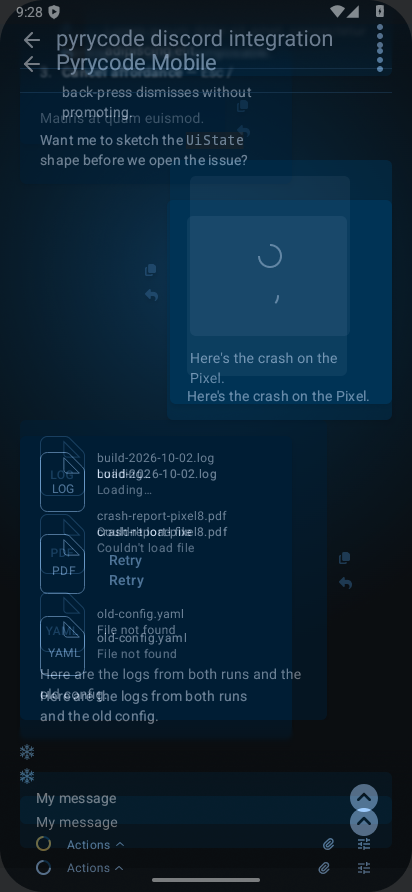
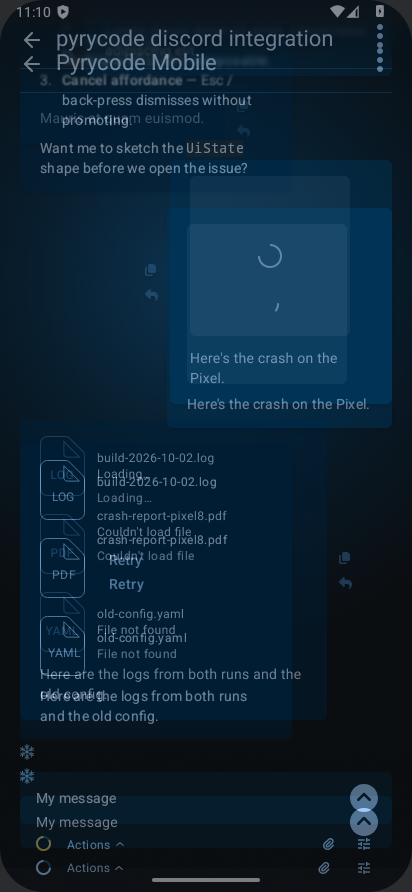
fix: match attachment Retry layout to Figma height (#1850)

diff --git a/app/src/sharedTest/java/de/pyryco/mobile/ui/conversations/components/MessageAttachmentsTest.kt b/app/src/sharedTest/java/de/pyryco/mobile/ui/conversations/components/MessageAttachmentsTest.kt
@@ -5,11 +5,14 @@ import androidx.compose.runtime.CompositionLocalProvider
 import androidx.compose.runtime.getValue
 import androidx.compose.runtime.mutableStateOf
 import androidx.compose.runtime.setValue
+import androidx.compose.ui.geometry.Offset
 import androidx.compose.ui.graphics.ImageBitmap
 import androidx.compose.ui.platform.LocalDensity
 import androidx.compose.ui.test.assertCountEquals
 import androidx.compose.ui.test.assertHasClickAction
 import androidx.compose.ui.test.assertHasNoClickAction
+import androidx.compose.ui.test.assertTouchHeightIsEqualTo
+import androidx.compose.ui.test.click
 import androidx.compose.ui.test.getUnclippedBoundsInRoot
 import androidx.compose.ui.test.hasText
 import androidx.compose.ui.test.junit4.createComposeRule
@@ -320,6 +323,42 @@ class MessageAttachmentsTest {
         composeTestRule.onNodeWithText("Retry").assertExists()
         composeTestRule.onNodeWithTag(MESSAGE_ATTACHMENT_FILE_TEST_TAG).assertHasNoClickAction()
         assertEquals(emptyList<Any>(), acted)
+    }
+
+    @Test
+    fun failedRetry_keepsFortyDpLayoutHeight_andFortyEightDpTouchTarget() {
+        val retried = mutableListOf<String>()
+        composeTestRule.setContent {
+            PyrycodeMobileTheme {
+                Surface {
+                    MessageAttachments(
+                        attachments =
+                            listOf(
+                                MessageAttachment(A1, "notes.txt", "text/plain"),
+                                MessageAttachment(A2, "gone.yaml", "application/yaml"),
+                            ),
+                        states = mapOf(A1 to AttachmentViewState.Failed, A2 to AttachmentViewState.NotFound),
+                        onShown = {},
+                        onRetry = { retried += it },
+                    )
+                }
+            }
+        }
+
+        val retry = composeTestRule.onNodeWithText("Retry")
+        val retryBounds = retry.getUnclippedBoundsInRoot()
+        assertEquals(40f, retryBounds.height.value, 0.5f)
+        val rows = composeTestRule.onAllNodesWithTag(MESSAGE_ATTACHMENT_FILE_TEST_TAG)
+        val failed = rows[0].getUnclippedBoundsInRoot()
+        val next = rows[1].getUnclippedBoundsInRoot()
+        assertEquals(72f, failed.height.value, 0.5f)
+        assertEquals(84f, (next.top - failed.top).value, 0.5f)
+        retry.assertTouchHeightIsEqualTo(48.dp)
+
+        // Real pointer taps in the expanded target, 2dp beyond each visible edge.
+        retry.performTouchInput { click(Offset(center.x, -height / 20f)) }
+        retry.performTouchInput { click(Offset(center.x, height + height / 20f)) }
+        assertEquals(listOf(A1, A1), retried)
     }
 
     @Test

diff --git a/app/src/main/java/de/pyryco/mobile/ui/conversations/components/MessageAttachments.kt b/app/src/main/java/de/pyryco/mobile/ui/conversations/components/MessageAttachments.kt
@@ -14,6 +14,7 @@ import androidx.compose.foundation.layout.Column
 import androidx.compose.foundation.layout.Row
 import androidx.compose.foundation.layout.aspectRatio
 import androidx.compose.foundation.layout.fillMaxSize
+import androidx.compose.foundation.layout.height
 import androidx.compose.foundation.layout.padding
 import androidx.compose.foundation.layout.size
 import androidx.compose.foundation.layout.sizeIn
@@ -440,7 +441,11 @@ private fun AttachmentFileRow(
                 )
             }
             if (state is AttachmentViewState.Failed) {
-                TextButton(onClick = onRetry) { Text(stringResource(R.string.thread_attachment_retry)) }
+                // Figma 696:4913 reserves 40dp in the row; Compose still expands pointer hit testing
+                // to the platform's 48dp minimum beyond these visual bounds.
+                TextButton(onClick = onRetry, modifier = Modifier.height(40.dp)) {
+                    Text(stringResource(R.string.thread_attachment_retry))
+                }
             }
         }
     }

diff --git a/app/src/androidTest/assets/design-1220/thread/index.md b/app/src/androidTest/assets/design-1220/thread/index.md
@@ -862,22 +862,26 @@ older captures.
 
 ### Message attachment states — `696:4913`
 
-- **Owning ticket:** #1624 (closed, fixed by #1848); #1850 (open, residual spacing)
+- **Owning ticket:** #1624 (closed, fixed by #1848); #1850 (Retry spacing fixed)
 - **Capture:** `attachment-states.png` (412x892, 1.0)
 - **Side-by-side:** `attachment-states-side-by-side.png`
 - **Overlay:** `attachment-states-overlay.png`
-- **Verdict:** mismatch (small residual)
-- #1848 fixed the tile colour, weight and name/state dimming #1624 found. A fresh pixel scan of the file-tile
-  column finds the row pitch for the tile with no Retry control matches the frame exactly (58 px in both, log
-  tile to PDF tile); the pitch from the PDF tile (which carries Retry) to the YAML tile is 106 px in the app
-  against the frame's 98 px, an 8 px excess from `AttachmentFileRow`'s `TextButton`'s default touch-target
-  height.
+- **Verdict:** match (Retry spacing corrected by #1850)
+- Fresh `ThreadDesignCaptureTest#attachmentAndEmptyFramesAt412By892` capture on 2026-10-06, full pixel8Api35,
+  real 24px bars, 412x892, density/font scale 1.0. `attachment-retry-1850-green.xml` records 1 executed/passed,
+  0 failures/errors/skips. The fresh Figma export is pixel-identical to `figma-696-4913.png`.
+- #1850 reduces Retry's layout allocation from 48dp to the frame's 40dp. The shared regression measures the
+  failed row at 72dp and its next-row top at 84dp, and proves the 48dp touch target with pointer taps beyond
+  both visible edges. In the hardware capture the glyph tops are 460/538/616px; Figma's are 436/514/592px.
+  Accounting for the app's 24px status bar, all three align exactly, with 78px tile-top pitch on both sides
+  of Retry. These consistent top-edge measurements supersede the earlier audit's 58/106/98px
+  pitch figures. #1848's colour, weight and name/state-dimming fixes remain in place.
 
 | Aspect | Verdict |
 |---|---|
 | Geometry | match: placeholder/spinner and bubble outer size within 2 px |
 | Padding | match: the name-to-state gap is 5 px in both, for every tile |
-| Spacing | mismatch: the Retry-bearing tile pushes the following tile 8 px further than the frame |
+| Spacing | match: 40dp Retry layout, 78px glyph-top pitch in app and frame; 48dp touch target retained |
 | Typography | match: type label regular weight |
 | Colour | match: tile glyph/outline/type label in the primary colour, file name at full on-secondary-container strength, only the state line dimmed |
 | Borders | match |
@@ -885,7 +889,7 @@ older captures.
 | Icon paths | match |
 | Component state | match: Loading, Couldn't load file with Retry, File not found |
 
-- **Routed:** #1850
+- **Routed:** none (residual Retry spacing fixed by #1850)
 
 ### Empty thread — `696:4989`
 

diff --git a/docs/specs/architecture/1850-attachment-retry-height.md b/docs/specs/architecture/1850-attachment-retry-height.md
@@ -22,3 +22,7 @@ Constrain `AttachmentFileRow`'s Retry TextButton to 40dp instead of its default 
 ## Testing strategy
 
 First add a failing shared test beside existing Retry tests: require a 40dp button, the corresponding failed-row/next-row geometry, a minimum 48dp touch area and real pointer activation above and below the visual button. Existing enlarged-text, open/save and non-actionable-state tests remain green. Run `MessageAttachmentsTest` and affected `MessageBubbleTest` coverage, lint, assemble, androidTest compile and forced Spotless. Recapture through `ThreadDesignCaptureTest#attachmentAndEmptyFramesAt412By892` on full pixel8Api35 with real bars; retained PNG and sidecar prove the 412x892 density-1 visual spacing. This device test is needed for real hardware screenshots, not JVM layout. Compare with the fresh Figma export and update only the attachment-state evidence verdict. Final whole unit/shared suite, assemble and pre-verify follow the last merge of main. This existing control receives no new operator flow, so no new real-Claude scenario is needed.
+
+## Revisions
+
+- 2026-10-06: The initial compact-bubble regression wrapped the failure label and measured an unrelated extra text line. Render `MessageAttachments` directly for the single-line geometry contract; the existing enlarged-text bubble test still covers containment. The corrected test failed with an 80dp row before implementation and passes with 72dp afterward. Hardware comparison uses the same glyph-top edge for every tile: 78px pitch in both app and Figma, superseding the issue's 58/106/98px figures. The design contract remains a 40dp layout and at least 48dp touch area.
